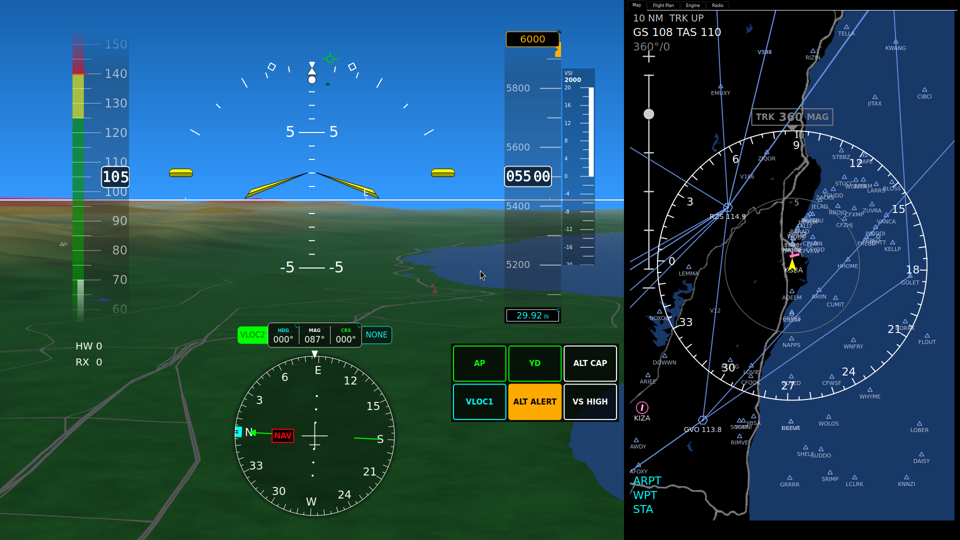
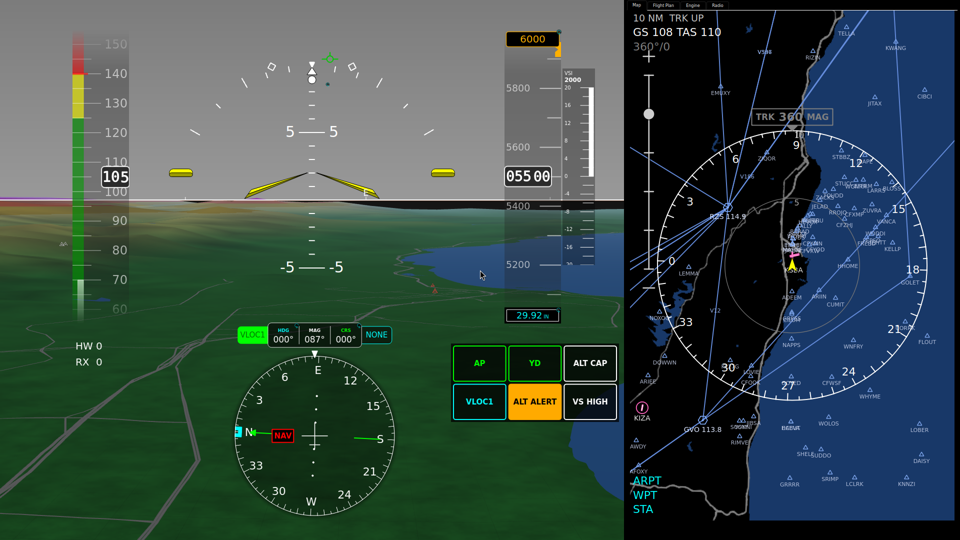
annunciator: NAVSRC example maps 0 VLOC1, 1 VLOC2, 2 GPS; recapture (AER-6347)
The demo, spec example, tests and bench kit mapped NAVSRC 0 to GPS. The
HSI defines 0 NAV1, 1 NAV2, 2 GPS, and the first bench frame showed the
tile reading VLOC1 while the HSI read VLOC2. Corrected everywhere and the
Beelink sheet recaptured.

Agent: AVIONICS

Changed region(s): [[0.0, 0.0, 0.6562, 0.4148]]

diff --git a/tests/instruments/annunciator/test_annunciator.py b/tests/instruments/annunciator/test_annunciator.py
@@ -128,13 +128,13 @@ def test_flag_binding(db):
 def test_enum_binding_shows_the_mapped_text(db):
     """ANN-BIND-003: an enum map turns the value into text; YAML may key the
     map by int or by string; an unmapped value shows itself."""
-    db("NAVSRC", 0)
+    db("NAVSRC", 2)      # NAVSRC: 0 NAV1, 1 NAV2, 2 GPS (hsi/__init__.py)
     m = model([{"label": "NAV", "key": "NAVSRC", "level": "info",
-                "enum": {0: "GPS", "1": "VLOC1", 2: "VLOC2"}}], db)
+                "enum": {0: "VLOC1", "1": "VLOC2", 2: "GPS"}}], db)
     assert (only(m).text, only(m).level) == ("GPS", lamp.INFO)
-    db("NAVSRC", 1)
+    db("NAVSRC", 0)
     assert only(m).text == "VLOC1"
-    db("NAVSRC", 2)
+    db("NAVSRC", 1)
     assert only(m).text == "VLOC2"
     db("NAVSRC", 3)
     assert only(m).text == "3"
@@ -361,7 +361,7 @@ def test_back_from_stale_flashes_only_a_changed_reading(db):
 def test_enum_text_change_flashes(db):
     """ANN-FLASH-001: an enum tile flashes when its text changes."""
     db("NAVSRC", 0)
-    m = model([{"label": "NAV", "key": "NAVSRC", "enum": {0: "GPS", 1: "VLOC1"},
+    m = model([{"label": "NAV", "key": "NAVSRC", "enum": {0: "VLOC1", 1: "VLOC2", 2: "GPS"},
                 "flash_on_change": 3}], db)
     db("NAVSRC", 1)
     assert only(m).flash
@@ -450,7 +450,7 @@ YAML_TILES = [
     {"label": "OIL LOW", "key": "OILP", "when": "OILP lt 25",
      "level": "warning"},
     {"label": "NAV", "key": "NAVSRC", "level": "info",
-     "enum": {0: "GPS", 1: "VLOC1"}},
+     "enum": {0: "VLOC1", 1: "VLOC2", 2: "GPS"}},
     {"label": "OILT", "key": "OILT", "level": "status"},
 ]
 

diff --git a/docs/images/ann1_annunciator/kit/drive.py b/docs/images/ann1_annunciator/kit/drive.py
@@ -8,7 +8,7 @@ bg = {"PITCH": 2.0, "ROLL": 0.0, "IAS": 105.0, "TAS": 110.0, "ALT": 5500.0,
       "HEAD": 87.0, "TRACK": 88.0, "GS": 108.0, "LAT": 34.4275,
       "LONG": -119.8546, "ALAT": 0.0, "AGL": 5400.0, "BARO": 29.92,
       "OAT": 10.0}
-tiles = {"APENG": 0, "YDENG": 0, "APALTCAP": 0, "NAVSRC": 0, "ALTSEL": 6000,
+tiles = {"APENG": 0, "YDENG": 0, "APALTCAP": 0, "NAVSRC": 2, "ALTSEL": 6000,
          "VS": 0}
 ann = {"ALTSEL": 0}
 stale = set()
@@ -57,7 +57,7 @@ steps = [
     ("2_ap_on", lambda: tiles.update(APENG=1)),
     ("3_yd_on", lambda: tiles.update(YDENG=1)),
     ("4_altcap_on", lambda: tiles.update(APALTCAP=1)),
-    ("5_nav_vloc1", lambda: tiles.update(NAVSRC=1)),
+    ("5_nav_vloc1", lambda: tiles.update(NAVSRC=0)),
     ("6_altsel_annunciate", lambda: ann.update(ALTSEL=1)),
     ("7_vs_2000_local_red_is_advisory", lambda: tiles.update(VS=2000)),
 ]

diff --git a/tools/render_instrument.py b/tools/render_instrument.py
@@ -106,11 +106,11 @@ _DEMO_ANNUNCIATOR = {
         {"label": "TRIM", "key": "DEMOANN5", "flag": "annunciate",
          "level": "caution"},
         {"label": "NAV", "key": "DEMOANN6", "level": "info",
-         "enum": {0: "GPS", 1: "VLOC1", 2: "VLOC2"}},
+         "enum": {0: "VLOC1", 1: "VLOC2", 2: "GPS"}},
     ],
 }
 _DEMO_ANNUNCIATOR_SEED = {"DEMOANN1": 1, "DEMOANN2": 1, "DEMOANN3": 0,
-                          "DEMOANN4": 1, "DEMOANN5": 1, "DEMOANN6": 0}
+                          "DEMOANN4": 1, "DEMOANN5": 1, "DEMOANN6": 2}
 
 
 def _demo_annunciator(instrument_type, options):

diff --git a/docs/images/ann1_annunciator/kit/edit_cfg.py b/docs/images/ann1_annunciator/kit/edit_cfg.py
@@ -19,7 +19,7 @@ d["PFD"]["instruments"].append({
             {"label": "YD", "key": "YDENG", "level": "status"},
             {"label": "ALT CAP", "key": "APALTCAP", "level": "advisory"},
             {"label": "NAV", "key": "NAVSRC", "level": "info",
-             "enum": {0: "GPS", 1: "VLOC1", 2: "VLOC2"}},
+             "enum": {0: "VLOC1", 1: "VLOC2", 2: "GPS"}},
             {"label": "ALT ALERT", "key": "ALTSEL", "flag": "annunciate",
              "level": "caution"},
             {"label": "VS HIGH", "key": "VS", "when": "VS gt 1500",

diff --git a/src/pyefis/instruments/annunciator/__init__.py b/src/pyefis/instruments/annunciator/__init__.py
@@ -23,7 +23,7 @@ Each entry of the ``tiles`` option is one lamp::
       # ... and at most one of:
       when: "GEARDN eq true"  # a condition in the Button grammar
       flag: annunciate        # one of the key's own flags
-      enum: {0: GPS, 1: VLOC1}  # value -> text (the lamp shows the text)
+      enum: {0: VLOC1, 1: VLOC2, 2: GPS}  # value -> text (NAVSRC)
       # with none of them the lamp is lit while the value is truthy
       condition_keys: [OILT]  # other keys a `when` reads
       on_text: GEAR DN        # default: label

diff --git a/docs/images/ann1_annunciator/README.md b/docs/images/ann1_annunciator/README.md
@@ -1,9 +1,10 @@
 # ANN1 annunciator evidence (AER-6347)
 
 - `sheet.png`: the 2x3 block cropped from ten captures of the composed PFD, 2x
-  nearest-neighbour. In order: before first data, all keys fresh and off, AP on
-  (caught in the flash's off phase: heavy box, caption hidden), YD on, ALT CAP on,
-  NAVSRC 1 (VLOC1), ALTSEL `annunciate` set (caution, amber), VS 2000 against a
+  nearest-neighbour. In order: before first data, all keys fresh and off (NAVSRC
+  2 = GPS), AP on (boxed, flash on phase), YD on (AP's flash still running, off
+  phase: heavy box, caption hidden), ALT CAP on, NAVSRC 0 (VLOC1; NAVSRC is 0 NAV1,
+  1 NAV2, 2 GPS), ALTSEL `annunciate` set (caution, amber), VS 2000 against a
   local `VS gt 1500` condition that asks for `warning` (drawn at advisory, white,
   by Bill's level rule), APENG old (stale), NAVSRC failed (stale).
 - `pfd_state7.png`: the whole PFD at state 7, half size, so the block is seen in
@@ -37,4 +38,5 @@ ssh pyefis@10.110.10.241 'cd ~/bench-scratch/aer6347 && tar xzf src.tgz && sh se
 The tile keys (APENG, YDENG, APALTCAP, NAVSRC, ALTSEL, VS) are the keys the
 bench's X-Plane adapter feeds. They were driven synthetically on the private
 gateway so the live bus and sim stayed untouched. Fonts: B612 as configured.
-SVS shows the sky/ground fallback, because llvmpipe on Xvfb has no terrain pass.
+SVS terrain renders through llvmpipe on the Xvfb (Santa Barbara, from the
+driver's LAT/LONG).

diff --git a/docs/annunciator_widget_spec.md b/docs/annunciator_widget_spec.md
@@ -34,7 +34,7 @@ key shown as text (`NAVSRC` as `GPS`, `VLOC1`).
       - {label: FUEL PUMP, key: FUELPUMP, level: status}
       - {label: OIL PRESS, key: OILP, flag: annunciate, level: warning}
       - {label: OIL LOW, key: OILP, when: "OILP lt 25", level: info}
-      - {label: NAV, key: NAVSRC, level: info, enum: {0: GPS, 1: VLOC1, 2: VLOC2}}
+      - {label: NAV, key: NAVSRC, level: info, enum: {0: VLOC1, 1: VLOC2, 2: GPS}}
 ```
 
 - **A tile** has a `label` and a `key`, and at most one binding: `when` (a condition in the
